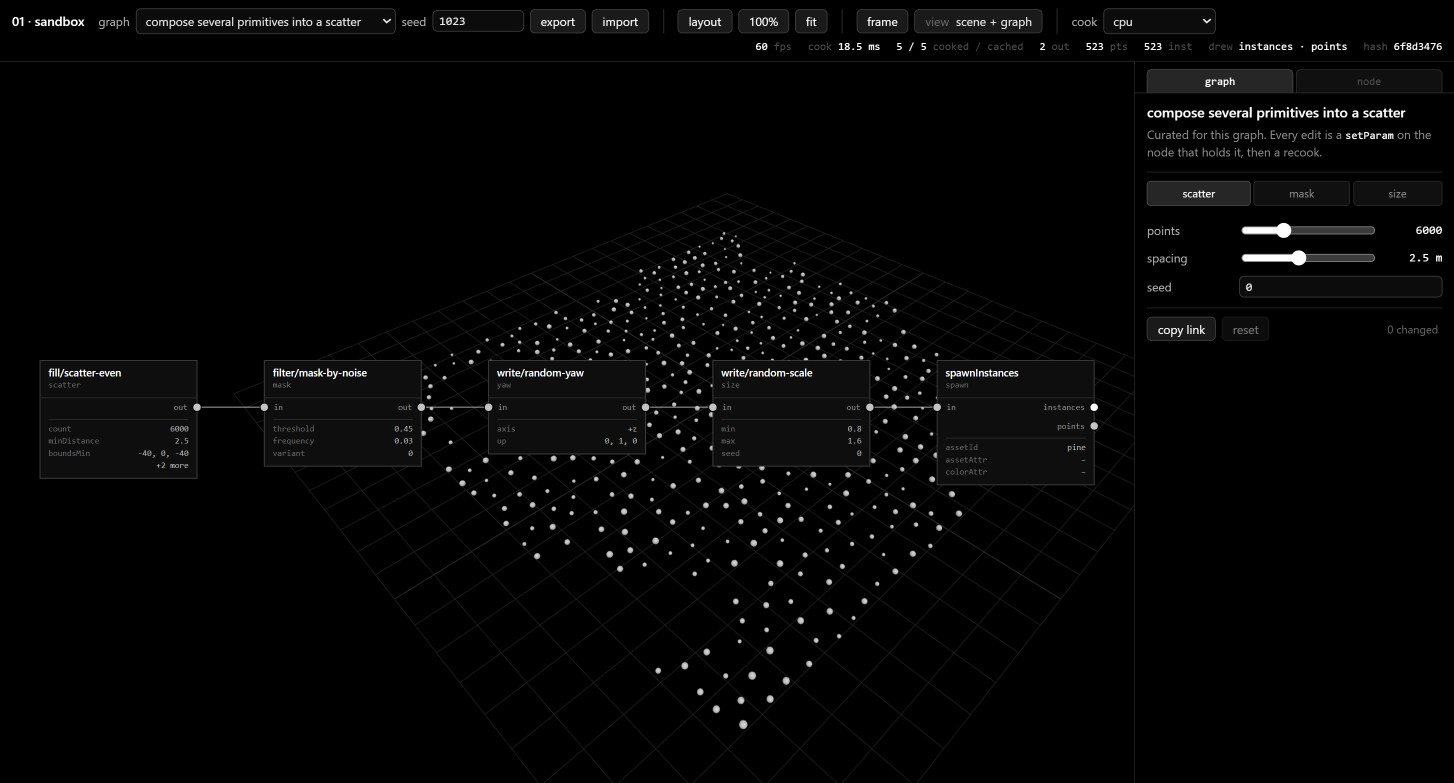
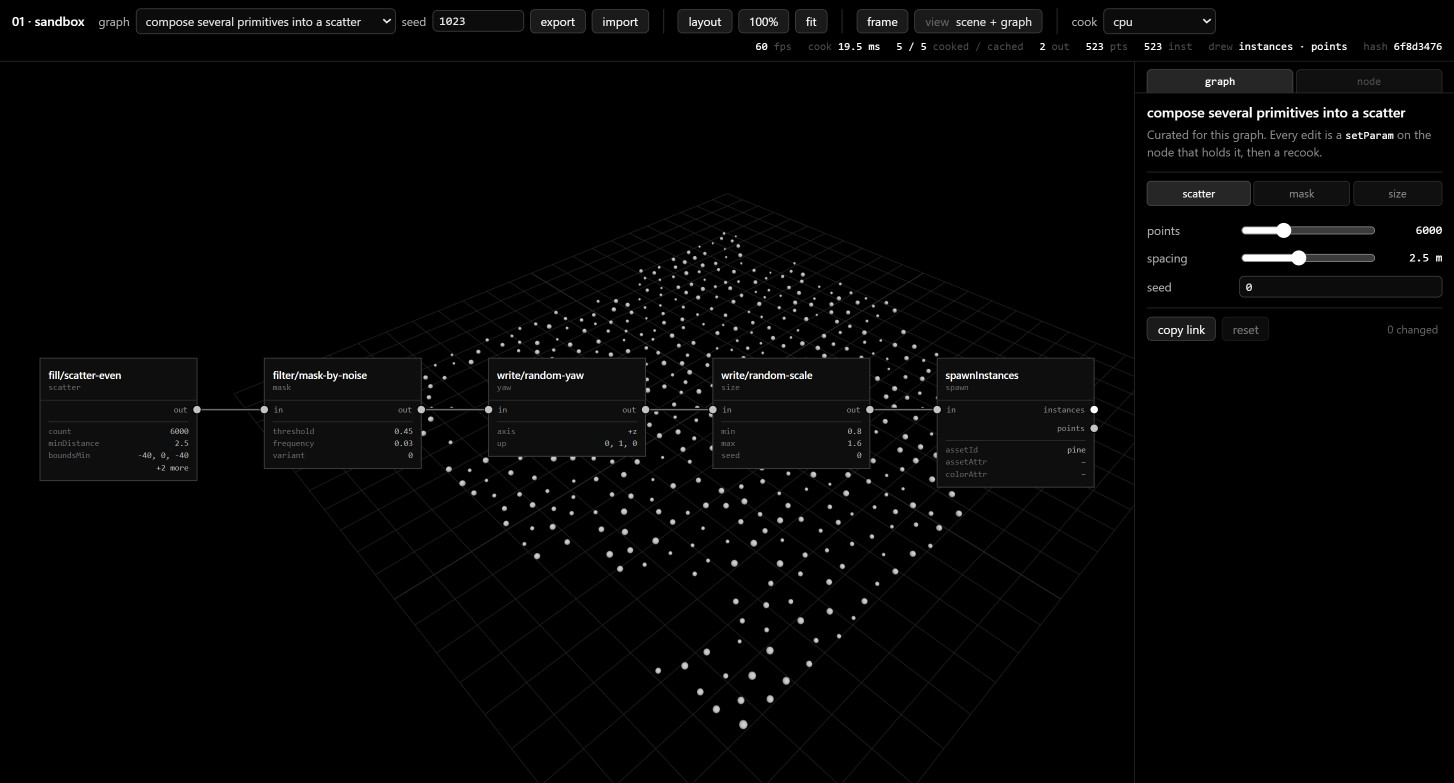
sandbox: more room above the node title
`PAD_TOP` splits off from `PAD` at 14 against 9. Metrically equal padding
was not reading as equal: the sides are measured to the edge of a glyph
while the top is measured to the top of the caps, and the eye takes the
two lines of the header as one band, so the gap above it has to be
visibly larger before the two look the same.

An optical correction, not a second opinion about the value — left, right
and bottom still come off `PAD`, and `TITLE_Y` / `ID_Y` / `HEADER_H` keep
deriving from whichever constant applies rather than being typed in.

Measured from rendered pixels: top 14-14.5, was 9.4.

npm test: 117 files, 2932 passed. Figures regenerated.

diff --git a/examples/01-sandbox/layout.ts b/examples/01-sandbox/layout.ts
@@ -19,13 +19,25 @@ export const NODE_W = 168;
  */
 export const PAD = 9;
 
+/**
+ * Space above the title, and deliberately MORE than `PAD`.
+ *
+ * Metrically equal padding does not read as equal here. The side padding
+ * is measured to the edge of a glyph, while the top is measured to the
+ * top of the caps — and the eye reads the run of text as a band, so the
+ * gap above it needs to be visibly larger before the two look the same.
+ * This is an optical correction, not a second opinion about the value:
+ * left, right and bottom all still come off `PAD`.
+ */
+export const PAD_TOP = 14;
+
 /** Cap height of the 11px title face, and of the 9px id face below it. */
 const TITLE_CAP = 8;
 /** Leading between the title baseline and the id baseline. */
 const TITLE_TO_ID = 12;
 
-/** Baseline of the type name. Its cap top lands exactly `PAD` from the top. */
-export const TITLE_Y = PAD + TITLE_CAP;
+/** Baseline of the type name. Its cap top lands `PAD_TOP` from the top. */
+export const TITLE_Y = PAD_TOP + TITLE_CAP;
 /** Baseline of the node id, one line under the title. */
 export const ID_Y = TITLE_Y + TITLE_TO_ID;
 
